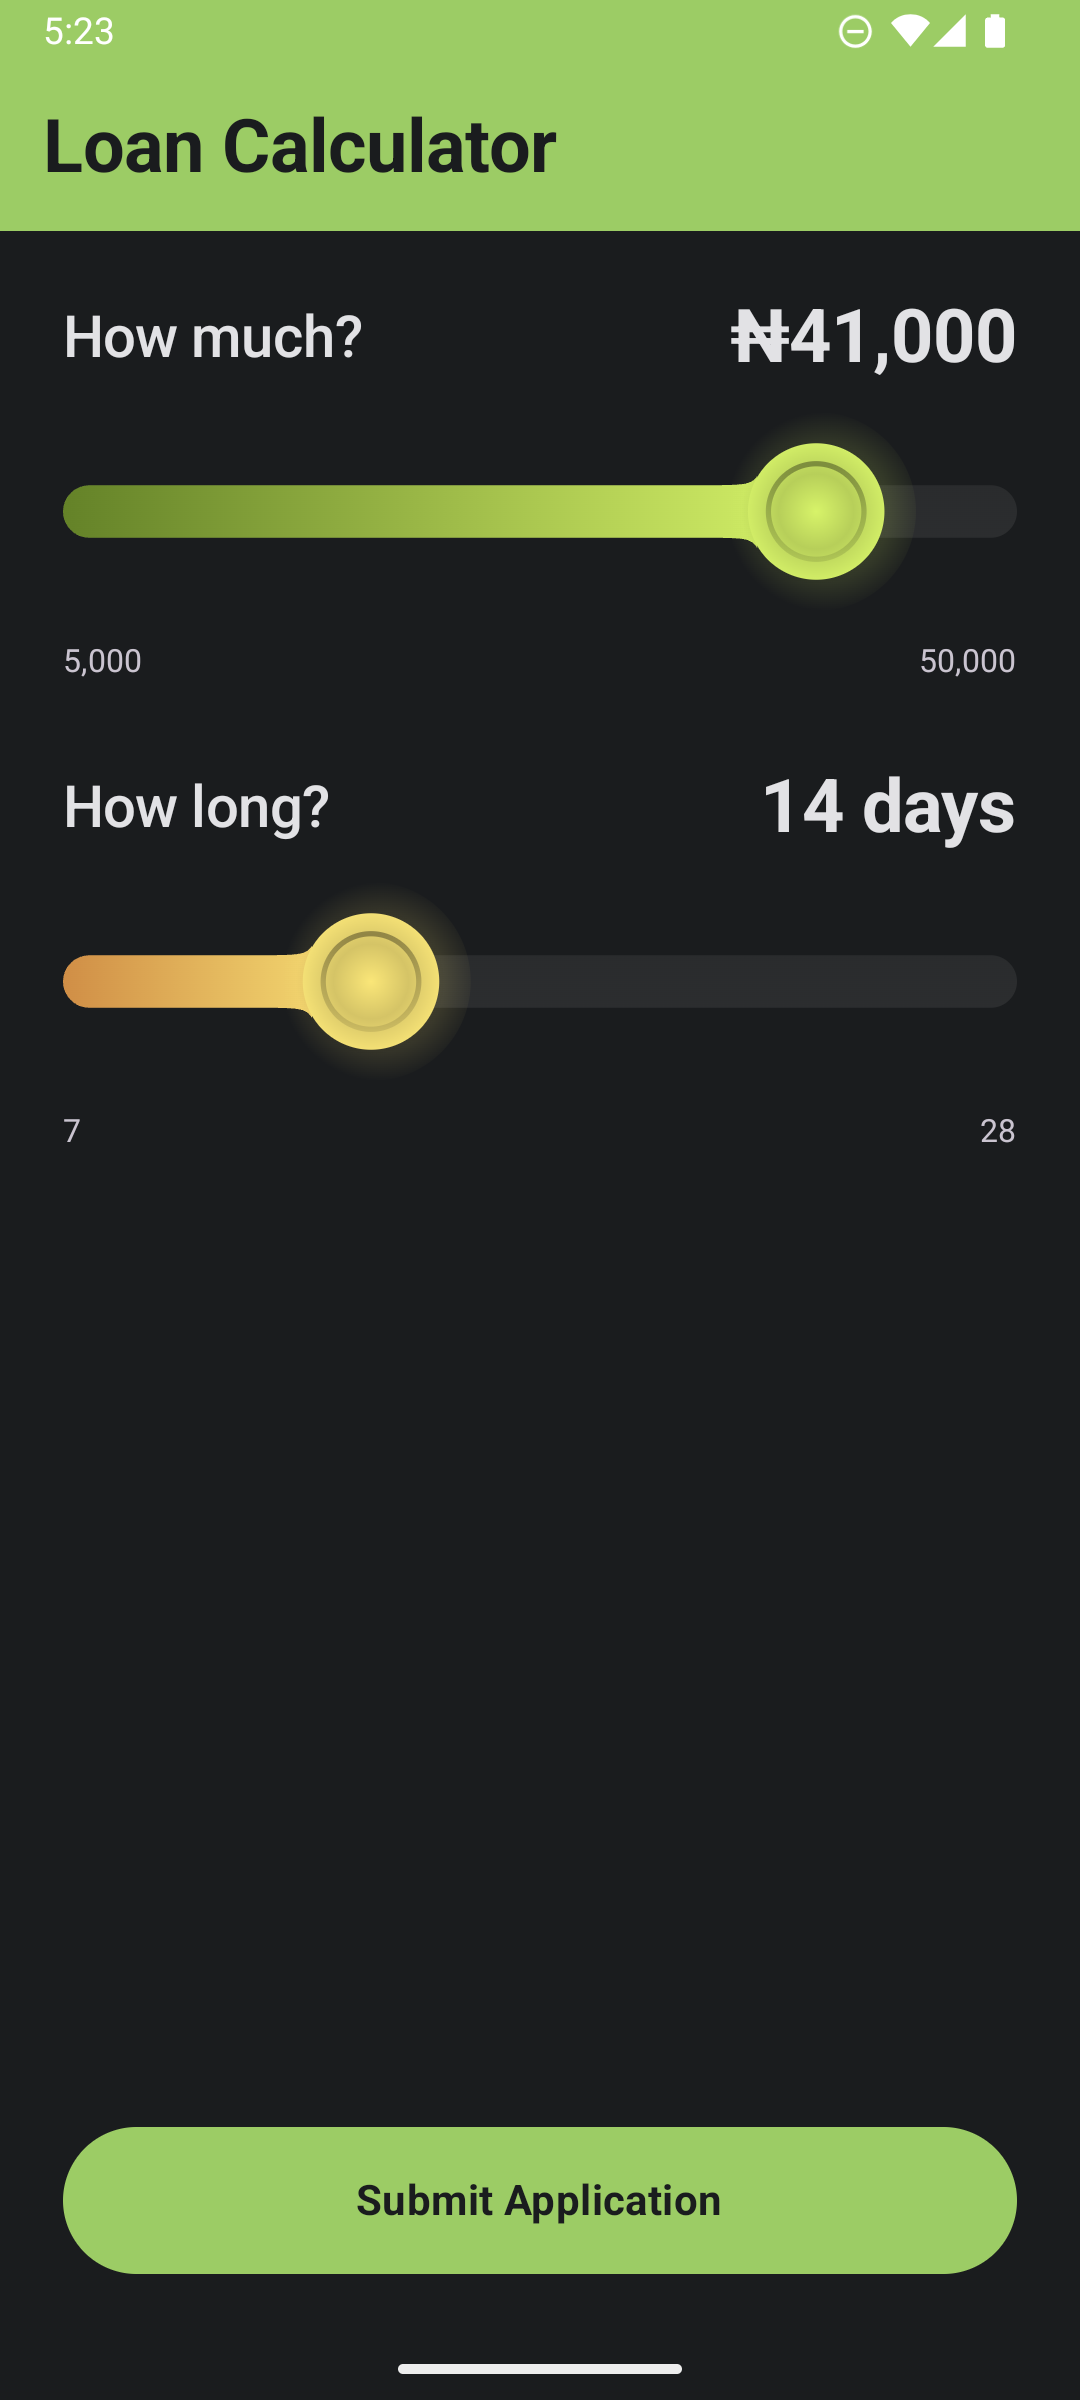
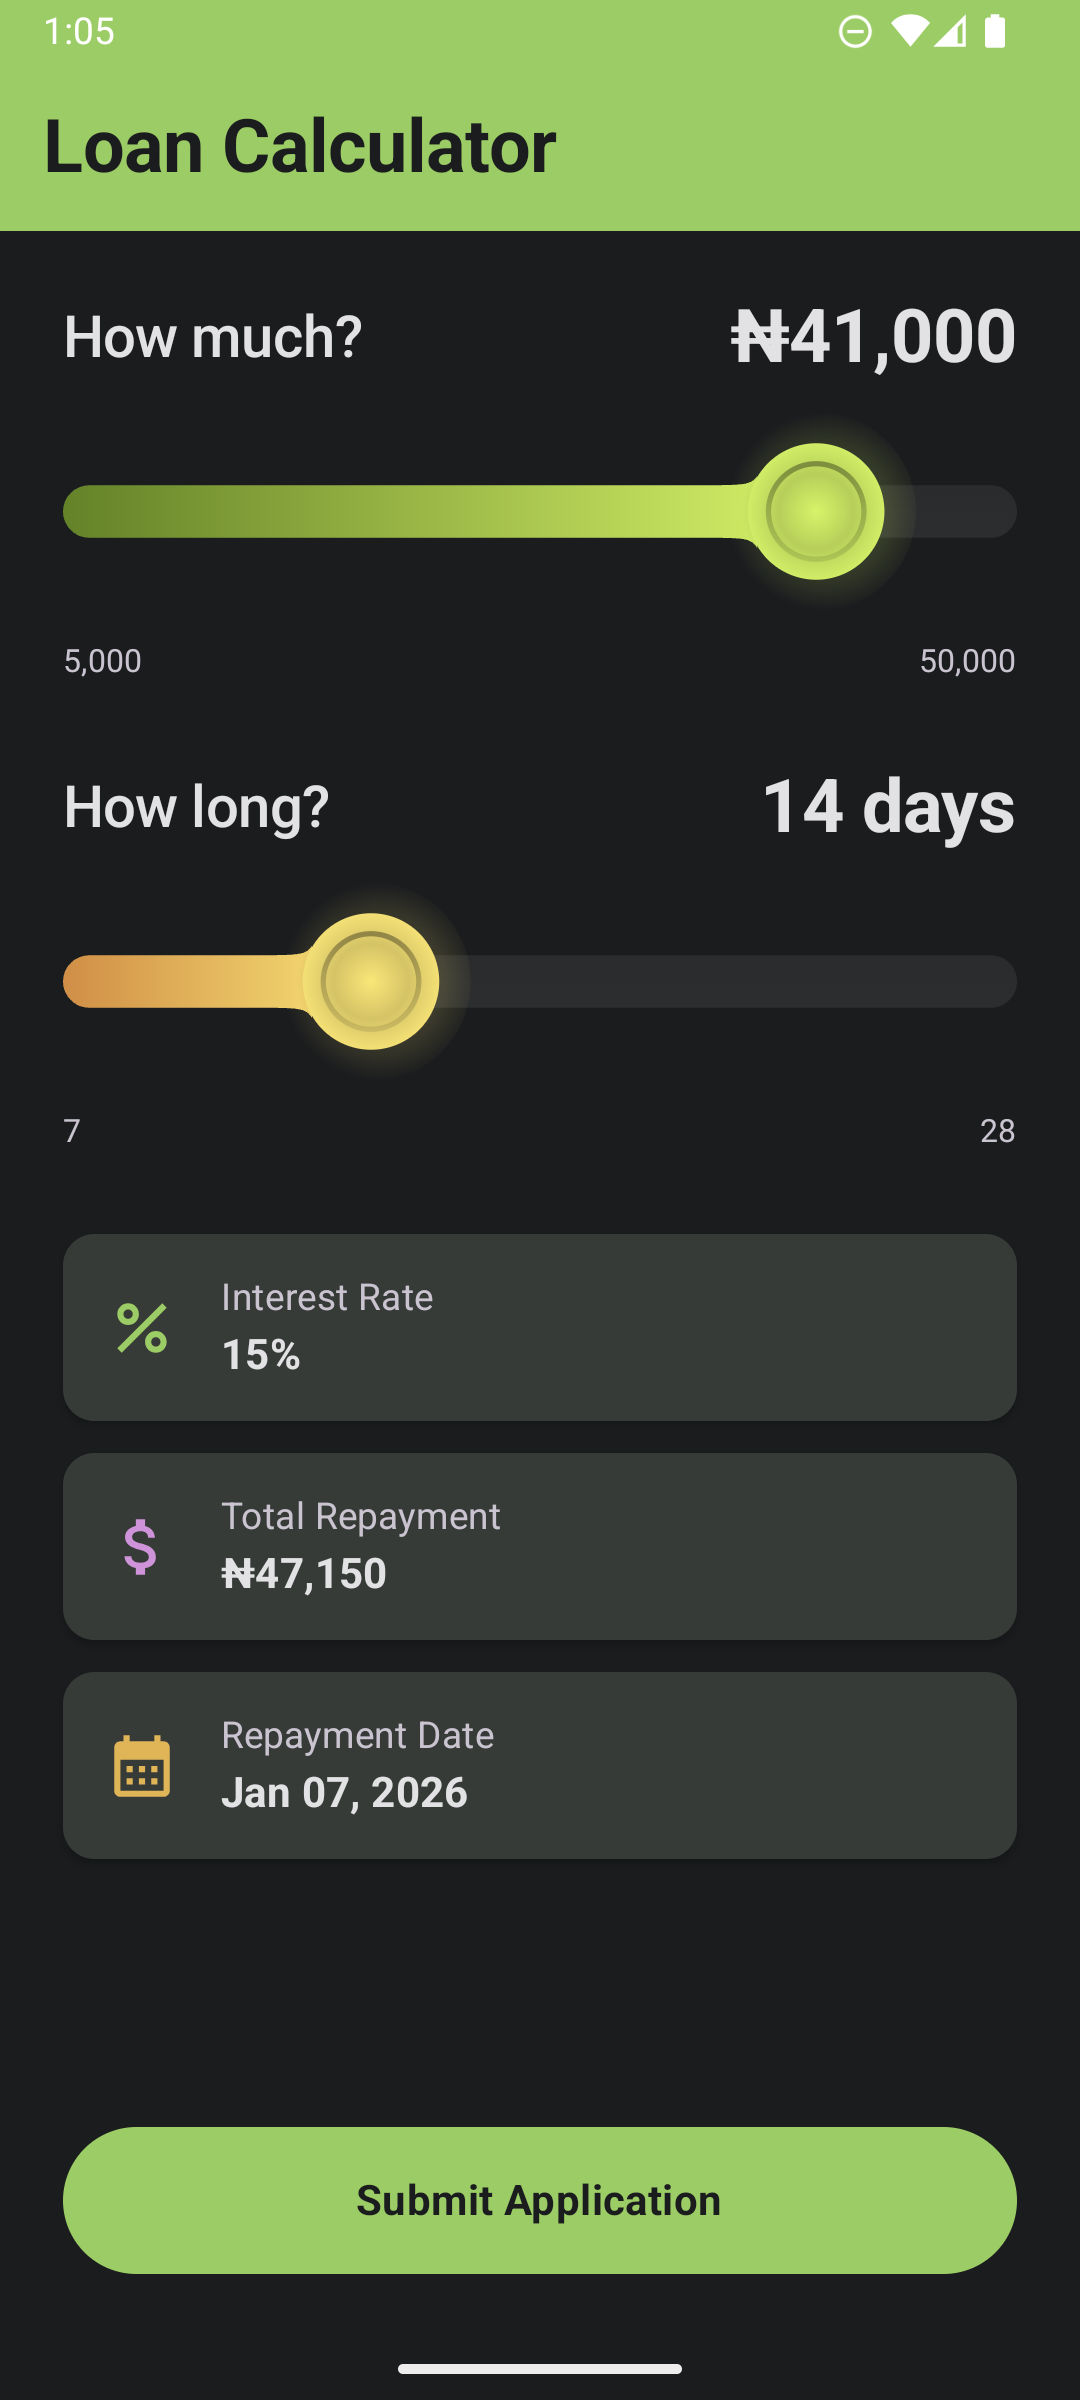
Added CalculationSection

Changed region(s): [[0.0611, 0.5, 0.9472, 0.7812], [0.0306, 0.0, 0.0917, 0.0312]]

diff --git a/Android/app/src/main/java/com/loancalculator/ui/LoanCalculatorScreen.kt b/Android/app/src/main/java/com/loancalculator/ui/LoanCalculatorScreen.kt
@@ -94,6 +94,8 @@ fun LoanCalculatorScreen(
                 }
             )
             
+            CalculationSection(state = state)
+            
             Spacer(modifier = Modifier.weight(1f))
             
             SubmitButton(
@@ -283,6 +285,87 @@ fun SubmitButton(
                 style = MaterialTheme.typography.titleMedium,
                 fontWeight = FontWeight.Bold
             )
+        }
+    }
+}
+
+@Composable
+fun CalculationSection(
+    state: com.loancalculator.redux.LoanState,
+    modifier: Modifier = Modifier
+) {
+    Column(
+        modifier = modifier.fillMaxWidth(),
+        verticalArrangement = Arrangement.spacedBy(12.dp)
+    ) {
+        CalculationRow(
+            icon = Icons.Default.Percent,
+            title = "Interest Rate",
+            value = NumberFormatter.formatAsPercentage(state.interestRate),
+            iconColor = MaterialTheme.colorScheme.primary
+        )
+        
+        CalculationRow(
+            icon = Icons.Default.AttachMoney,
+            title = "Total Repayment",
+            value = "₦${NumberFormatter.formatAsCurrency(state.totalRepayment)}",
+            iconColor = MaterialTheme.colorScheme.tertiary
+        )
+        
+        CalculationRow(
+            icon = Icons.Default.CalendarMonth,
+            title = "Repayment Date",
+            value = NumberFormatter.formatAsShortDate(state.repaymentDate),
+            iconColor = MaterialTheme.colorScheme.secondary
+        )
+    }
+}
+
+@Composable
+fun CalculationRow(
+    icon: ImageVector,
+    title: String,
+    value: String,
+    iconColor: Color,
+    modifier: Modifier = Modifier
+) {
+    Card(
+        modifier = modifier.fillMaxWidth(),
+        colors = CardDefaults.cardColors(
+            containerColor = MaterialTheme.colorScheme.surface
+        ),
+        elevation = CardDefaults.cardElevation(defaultElevation = 2.dp)
+    ) {
+        Row(
+            modifier = Modifier
+                .fillMaxWidth()
+                .padding(16.dp),
+            horizontalArrangement = Arrangement.spacedBy(16.dp),
+            verticalAlignment = Alignment.CenterVertically
+        ) {
+            Icon(
+                imageVector = icon,
+                contentDescription = title,
+                tint = iconColor,
+                modifier = Modifier.size(28.dp)
+            )
+            
+            Column(
+                modifier = Modifier.weight(1f),
+                verticalArrangement = Arrangement.spacedBy(4.dp)
+            ) {
+                Text(
+                    text = title,
+                    style = MaterialTheme.typography.bodyMedium,
+                    color = MaterialTheme.colorScheme.onSurfaceVariant
+                )
+                Text(
+                    text = value,
+                    style = MaterialTheme.typography.titleMedium,
+                    fontWeight = FontWeight.Bold,
+                    color = MaterialTheme.colorScheme.onSurface
+                )
+            }
         }
     }
 }

diff --git a/iOS/LoanCalculator/ContentView.swift b/iOS/LoanCalculator/ContentView.swift
@@ -39,13 +39,15 @@ struct ContentView: View {
                         onEnd: { store.dispatch(.setPeriod(localPeriod)) }
                     )
                     
+                    CalculationSection(state: store.state)
+                    
                     SubmitButton(
                         isLoading: store.state.isLoading,
                         isEnabled: store.state.isValid && !store.state.isLoading
                     ) {
                         store.dispatch(.submitApplication)
                     }
-                    .padding(.top, 20)
+                    .padding(.top, 8)
                 }
                 .padding()
             }
@@ -535,6 +537,37 @@ struct PeriodSliderSection: View {
             
             Labels(minText: "\(options.first ?? -1)", maxText: "\(options.last ?? -1)")
         }
+    }
+}
+
+// MARK: - Calculation Section
+struct CalculationSection: View {
+    let state: LoanState
+    
+    var body: some View {
+        VStack(spacing: 8) {
+            ResultRow(
+                icon: "percent",
+                title: "Interest Rate",
+                value: state.interestRate.formatAsPercentage(),
+                color: Color.blue
+            )
+            
+            ResultRow(
+                icon: "dollarsign.circle.fill",
+                title: "Total Repayment",
+                value: "₦\(state.totalRepayment.formatAsCurrency())",
+                color: Color.green
+            )
+            
+            ResultRow(
+                icon: "calendar",
+                title: "Repayment Date",
+                value: state.repaymentDate.formatAsShortDate(),
+                color: Color.orange
+            )
+        }
+        .padding(.vertical, 4)
     }
 }
 
